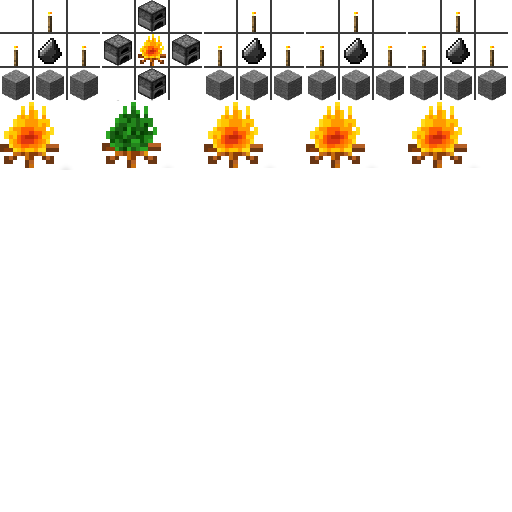
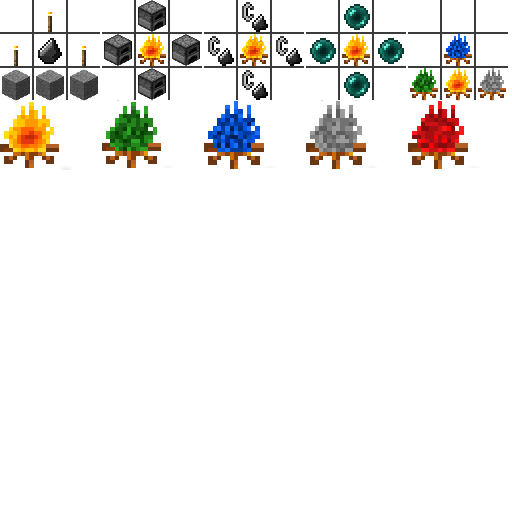
Worked on the Guide Books

Changed region(s): [[0.375, 0.0, 1.0, 0.3438]]

diff --git a/common/rikmuld/client/gui/screen/GuiGuideCampfire.java b/common/rikmuld/client/gui/screen/GuiGuideCampfire.java
@@ -18,14 +18,49 @@ public class GuiGuideCampfire extends GuiGuide {
 	@Override
 	public void addTextByPage(int page)
 	{
+		 int var1 = MathHelper.floor_float((this.width - this.bookImageWidth) / 2.2F);
+		 int var2 = MathHelper.floor_float((this.height - this.bookImageHeight) / 2.2F);
+		 
+		if(page!=0)
+		{
+			 GL11.glPushMatrix();
+			 GL11.glScalef(1.10F, 1.10F, 1.10F);
+			 drawString(fontRenderer,"Campfire", var1+44, var2+21, 0x3b3b3b);
+			 GL11.glPopMatrix();
+		}
 		if(page==1)
 		{
-			 int var1 = MathHelper.floor_float((this.width - this.bookImageWidth) / 2.4F);
-			 int var2 = MathHelper.floor_float((this.height - this.bookImageHeight) / 2.4F);
 			 GL11.glPushMatrix();
-			 GL11.glScalef(1.2F, 1.2F, 1.2F);
-			 drawString(fontRenderer,"The Decoration", var1+20, var2+11, 0x3b3b3b);
-			 drawString(fontRenderer,"Campfire", var1+39, var2+21, 0x3b3b3b);
+			 GL11.glScalef(1.10F, 1.10F, 1.10F);
+			 drawString(fontRenderer,"The Decoration", var1+26, var2+11, 0x3b3b3b);
+			 GL11.glPopMatrix();
+	    }
+		if(page==2)
+		{
+			 GL11.glPushMatrix();
+			 GL11.glScalef(1.10F, 1.10F, 1.10F);
+			 drawString(fontRenderer,"The Multi-Cooking", var1+22, var2+11, 0x3b3b3b);
+			 GL11.glPopMatrix();
+	    }
+		if(page==3)
+		{
+			 GL11.glPushMatrix();
+			 GL11.glScalef(1.10F, 1.10F, 1.10F);
+			 drawString(fontRenderer,"The Fast-Cooking", var1+22, var2+11, 0x3b3b3b);
+			 GL11.glPopMatrix();
+	    }
+		if(page==4)
+		{
+			 GL11.glPushMatrix();
+			 GL11.glScalef(1.10F, 1.10F, 1.10F);
+			 drawString(fontRenderer,"The Cheap-Cooking", var1+19, var2+11, 0x3b3b3b);
+			 GL11.glPopMatrix();
+	    }
+		if(page==5)
+		{
+			 GL11.glPushMatrix();
+			 GL11.glScalef(1.10F, 1.10F, 1.10F);
+			 drawString(fontRenderer,"The Insta-Cooking", var1+20, var2+11, 0x3b3b3b);
 			 GL11.glPopMatrix();
 	    }
 	}
@@ -43,11 +78,27 @@ public class GuiGuideCampfire extends GuiGuide {
 			 if(page==1) 
 			 {
 				 this.drawTexturedModalRect(((this.width - this.bookImageWidth) / 2)+67, ((this.height - this.bookImageHeight) / 2)+75, 0, 0, 50, 50);
-				 this.drawTexturedModalRect(((this.width - this.bookImageWidth) / 2)+120, ((this.height - this.bookImageHeight) / 2)+8, 0, 51, 29, 33);
+				 this.drawTexturedModalRect(((this.width - this.bookImageWidth) / 2)+125, ((this.height - this.bookImageHeight) / 2)+8, 0, 51, 29, 33);
 			 }
 			 else if (page==2) 
 			 {
-				 
+				 this.drawTexturedModalRect(((this.width - this.bookImageWidth) / 2)+67, ((this.height - this.bookImageHeight) / 2)+75, 51, 0, 50, 50);
+				 this.drawTexturedModalRect(((this.width - this.bookImageWidth) / 2)+125, ((this.height - this.bookImageHeight) / 2)+8, 51, 51, 29, 33);
+			 }
+			 else if (page==3) 
+			 {
+				 this.drawTexturedModalRect(((this.width - this.bookImageWidth) / 2)+67, ((this.height - this.bookImageHeight) / 2)+75, 102, 0, 50, 50);
+				 this.drawTexturedModalRect(((this.width - this.bookImageWidth) / 2)+125, ((this.height - this.bookImageHeight) / 2)+8, 102, 51, 29, 33);
+			 }
+			 else if (page==4) 
+			 {
+				 this.drawTexturedModalRect(((this.width - this.bookImageWidth) / 2)+67, ((this.height - this.bookImageHeight) / 2)+75, 153, 0, 50, 50);
+				 this.drawTexturedModalRect(((this.width - this.bookImageWidth) / 2)+125, ((this.height - this.bookImageHeight) / 2)+8, 153, 51, 29, 33);
+			 }
+			 else if (page==5) 
+			 {
+				 this.drawTexturedModalRect(((this.width - this.bookImageWidth) / 2)+67, ((this.height - this.bookImageHeight) / 2)+75, 204, 0, 50, 50);
+				 this.drawTexturedModalRect(((this.width - this.bookImageWidth) / 2)+125, ((this.height - this.bookImageHeight) / 2)+8, 204, 51, 29, 33);
 			 }
 		}
 	}
